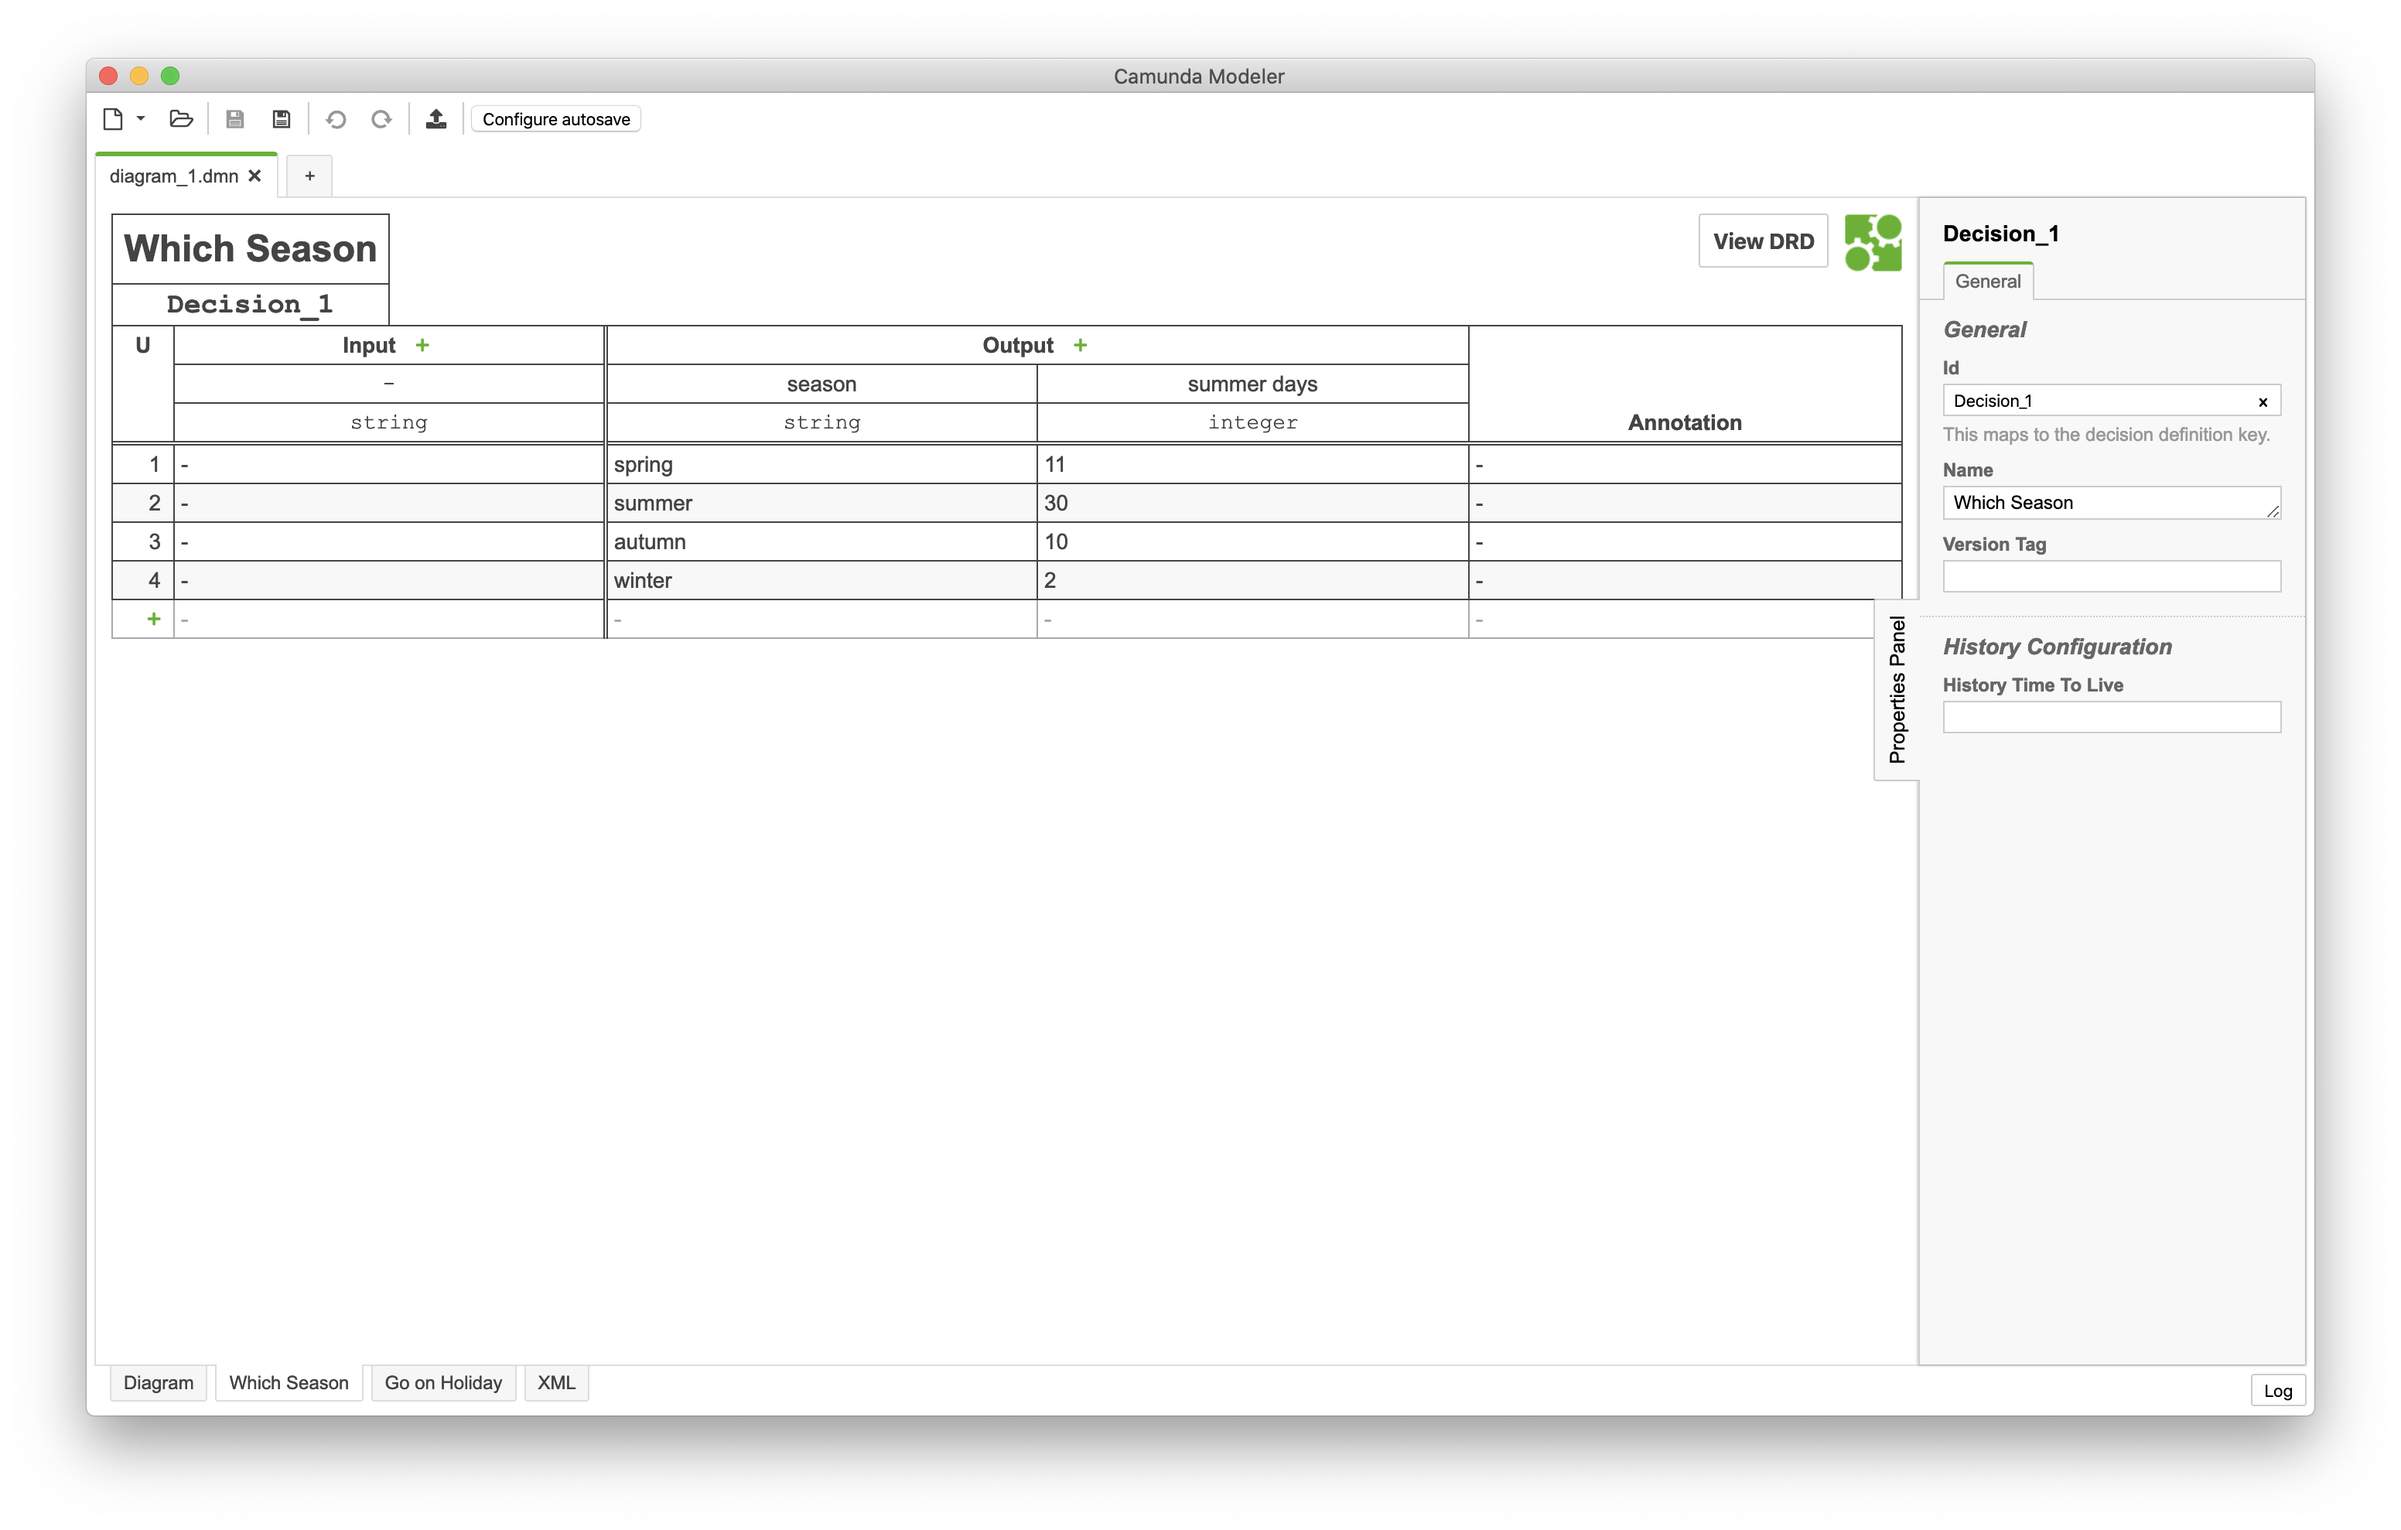
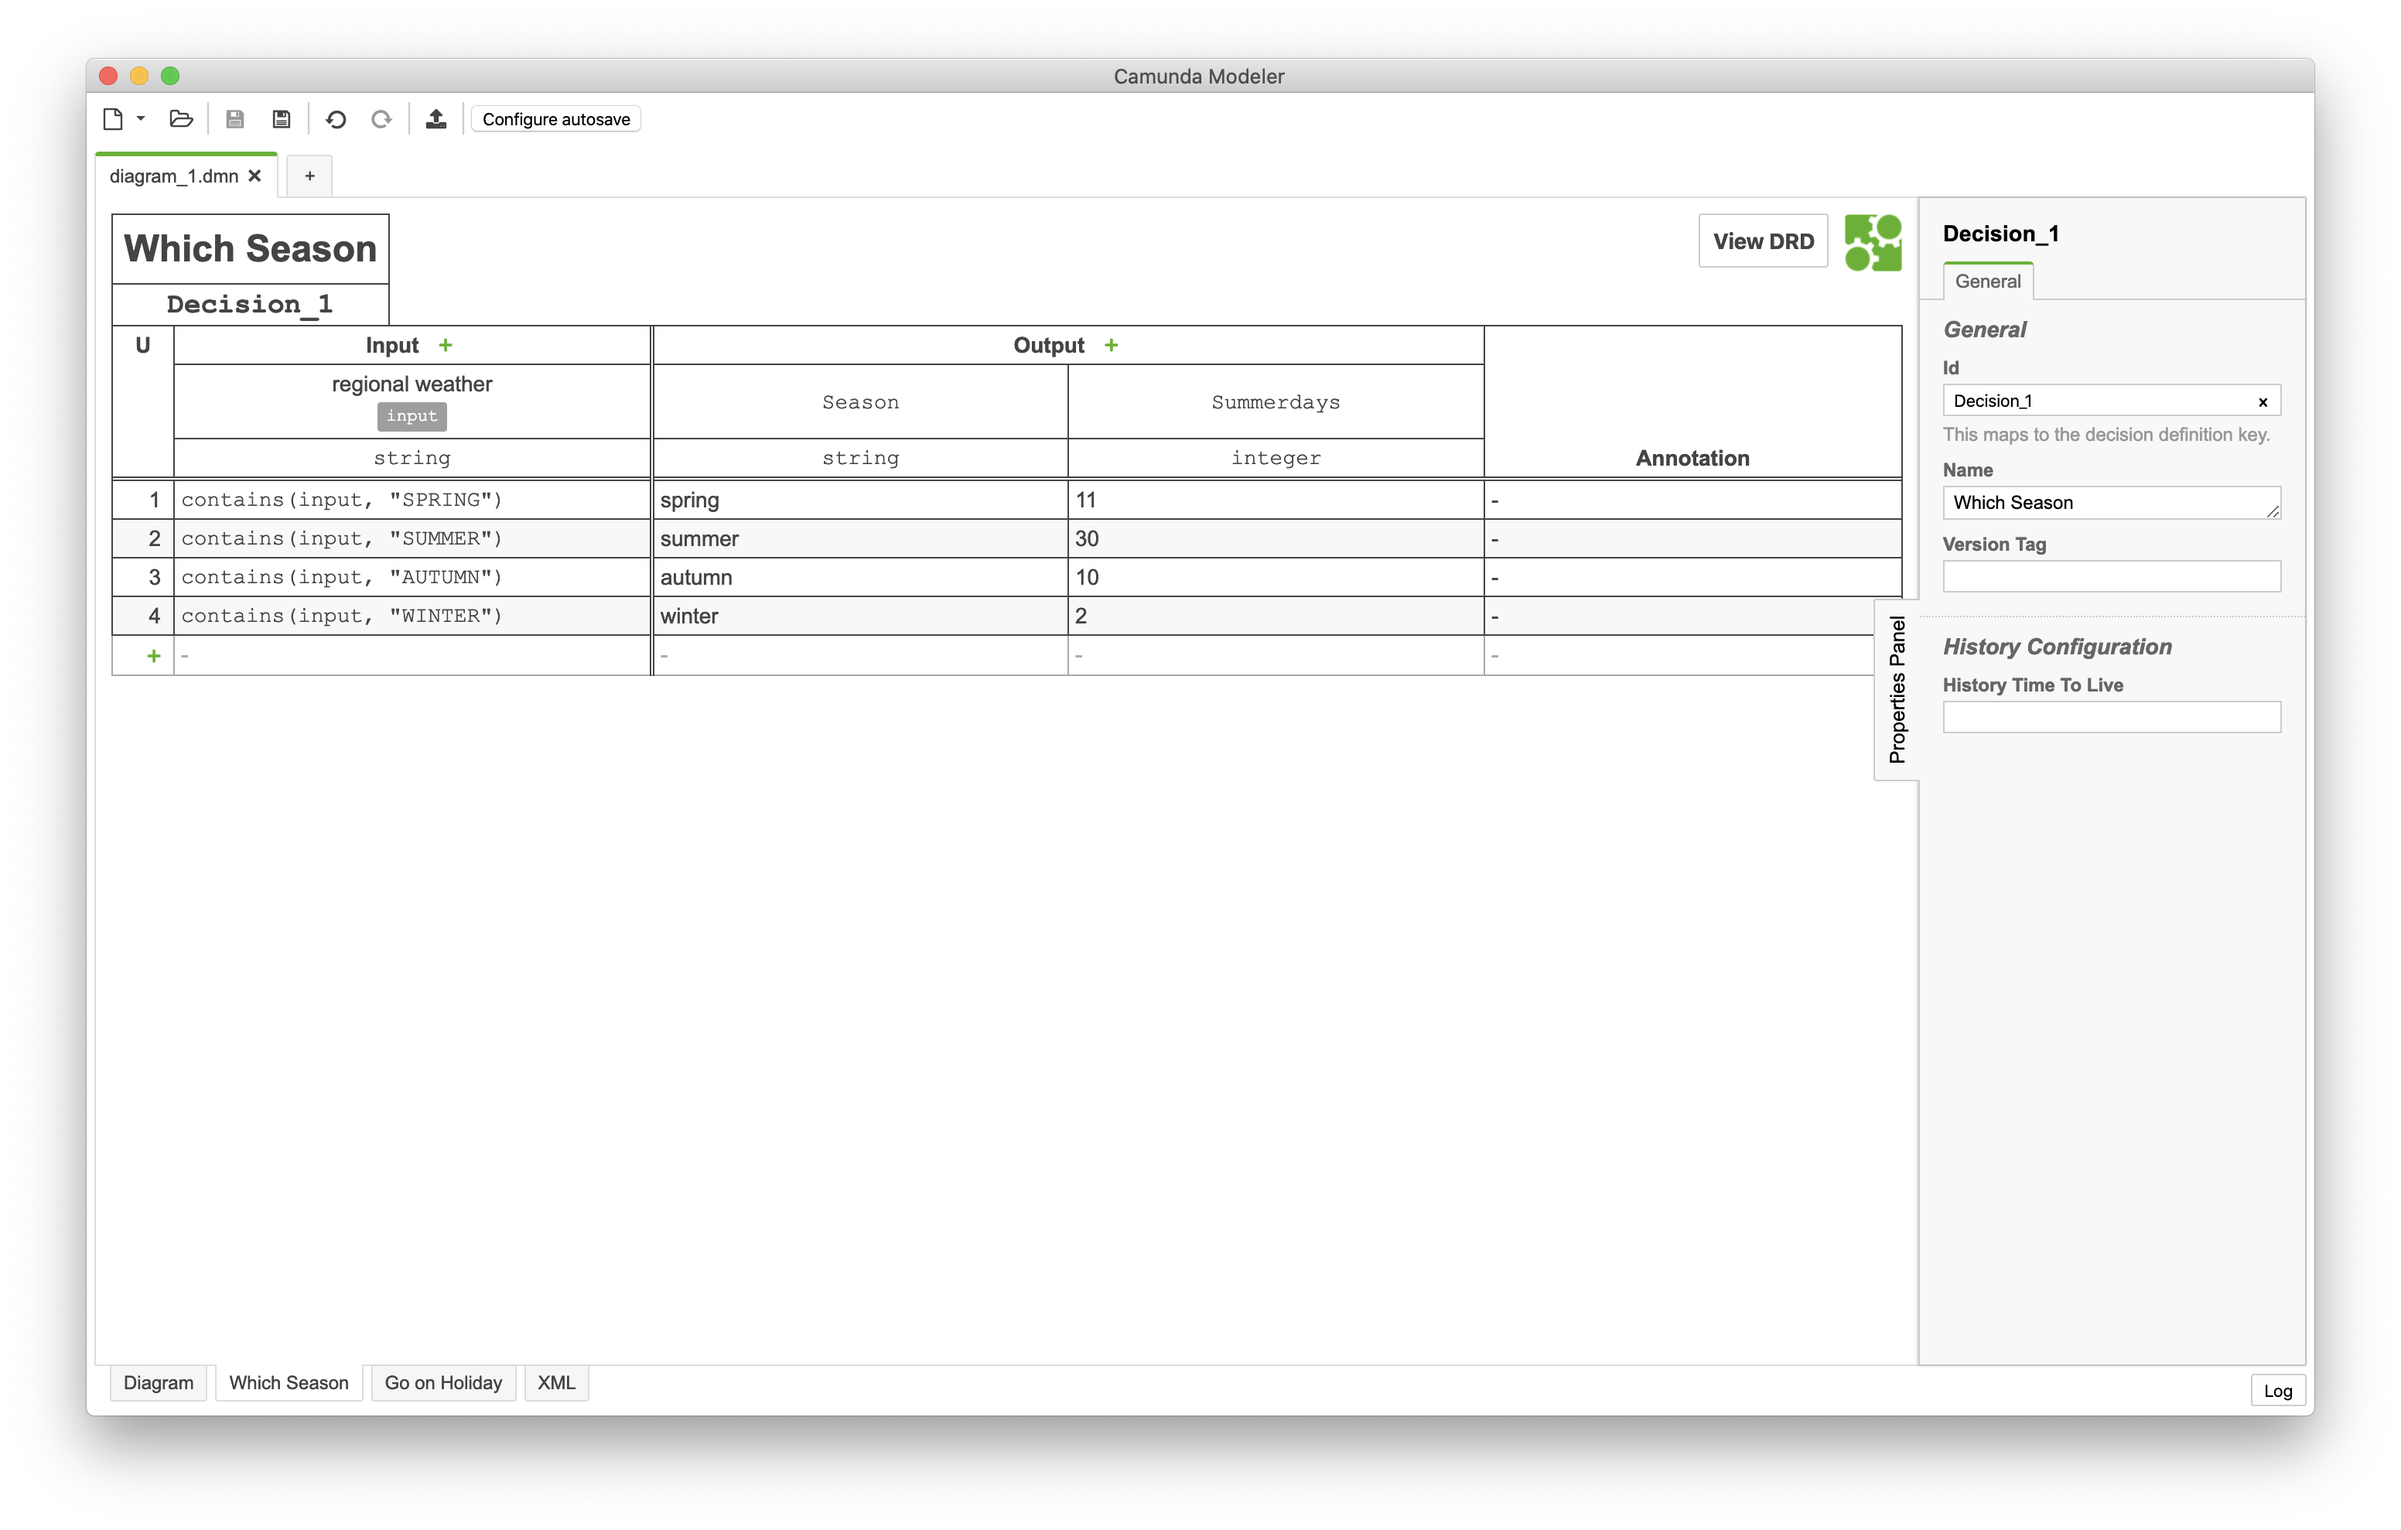
feat(project): add completed views

Changed region(s): [[0.0625, 0.2159, 0.7812, 0.4317], [0.4062, 0.2159, 0.4688, 0.2467]]

diff --git a/public/js/script.js b/public/js/script.js
@@ -1,8 +1,11 @@
 const views = {
     drd: { selector: "#view-drd" },
     'dt-season': { selector: "#view-dt-season" },
+    'dt-season-complete': { selector: "#view-dt-season-complete" },
     'dt-holiday-wrong': { selector: "#view-dt-holiday-wrong" },
     'dt-holiday': { selector: "#view-dt-holiday" },
+    'dt-holiday-summerdays': { selector: "#view-dt-holiday-summerdays" },
+    'dt-holiday-complete': { selector: "#view-dt-holiday-complete" },
     'drd-relations': { selector: "#view-drd-relations" },
     'drd-relations-correct-type': { selector: "#view-drd-relations-correct-type" },
     'drd-relations-correct-variable': { selector: "#view-drd-relations-correct-variable" },
@@ -11,8 +14,7 @@ const views = {
     'drd-relations-complete': { selector: "#view-drd-relations-complete" }
 }
 
-let stateHoliday;
-let stateRelations;
+let state;
 
 function switchView(viewId) {
 
@@ -38,7 +40,6 @@ function toggleDRDHovers(val) {
 
     const node4 = $('.outputs');
 
-
     node1.css('visibility', val);
     node2.css('visibility', val);
     node3.css('visibility', val);
@@ -47,45 +48,53 @@ function toggleDRDHovers(val) {
 
 $(document).ready(function(){
     $('.to-dt-holiday').click(function() {
-        if(stateHoliday === 'type-fixed') {
-            switchView('dt-holiday')
-        } else {
-            switchView('dt-holiday-wrong')
+        toggleDRDHovers('hidden');
+
+        switch(state) {
+            case 'correct-type': switchView('dt-holiday'); break;
+            case 'correct-variable': switchView('dt-holiday-summerdays'); break;
+            case 'complete': switchView('dt-holiday-complete'); break;
+            default: switchView('dt-holiday-wrong'); break;
         }
     });
 
     $('.change-type').click(function() {
-        stateHoliday = 'type-fixed';
-        stateRelations = 'correct-type';
+        state = 'correct-type';
         switchView('dt-holiday');
     });
 
     $('.fix-variable').click(function() {
-        stateRelations = 'correct-variable';
+        state = 'correct-variable';
         switchView('drd-relations-correct-variable');
     });
 
-    $('.to-dt-season').click(switchView.bind(this, 'dt-season'));
+    $('.to-dt-season').click(function() {
+        toggleDRDHovers('hidden');
+
+        switch(state) {
+            case 'complete': switchView('dt-season-complete'); break;
+            default: switchView('dt-season'); break;
+        }
+    });
+
+
     $('.to-drd').click(switchView.bind(this, 'drd'));
     $('.to-relations-new').click(switchView.bind(this, 'drd-relations-new'));
     $('.to-relations-new-filled').click(switchView.bind(this, 'drd-relations-new-filled'));
 
     $('.to-relations-complete').click(function()  {
-        stateRelations = 'complete';
+        state = 'complete';
         switchView('drd-relations-complete');
     });
 
     $('.see-relations').click(function() {
         toggleDRDHovers('hidden');
 
-        if(stateRelations === 'correct-type') {
-            switchView('drd-relations-correct-type');
-        } else if(stateRelations === 'correct-variable') {
-            switchView('drd-relations-correct-variable');
-        } else if(stateRelations === 'complete') {
-            switchView('drd-relations-complete');
-        } else {
-            switchView('drd-relations');
+        switch(state) {
+            case 'correct-type': switchView('drd-relations-correct-type'); break;
+            case 'correct-variable': switchView('drd-relations-correct-variable'); break;
+            case 'complete': switchView('drd-relations-complete'); break;
+            default: switchView('drd-relations'); break;
         }
     });
 

diff --git a/public/index.html b/public/index.html
@@ -99,8 +99,62 @@
         ></div>
       </div>
 
+      <!-- Decision Table Holiday (Summerdays) -->
+      <div id="view-dt-holiday-summerdays" class="view">
+        <div
+          class="interaction-box to-drd"
+          style="width: 70px; height: 25px; left: 1027px; top: 137px"
+        ></div>
+
+        <div
+          class="interaction-box to-drd"
+          style="width: 60px; height: 20px; left: 75px; top: 829px"
+        ></div>
+
+        <div
+          class="interaction-box to-dt-season"
+          style="width: 60px; height: 20px; left: 140px; top: 829px"
+        ></div>
+      </div>
+
+      <!-- Decision Table Holiday (Complete) -->
+      <div id="view-dt-holiday-complete" class="view">
+        <div
+          class="interaction-box to-drd"
+          style="width: 70px; height: 25px; left: 1027px; top: 137px"
+        ></div>
+
+        <div
+          class="interaction-box to-drd"
+          style="width: 60px; height: 20px; left: 75px; top: 829px"
+        ></div>
+
+        <div
+          class="interaction-box to-dt-season"
+          style="width: 60px; height: 20px; left: 140px; top: 829px"
+        ></div>
+      </div>
+
       <!-- Decision Table Season -->
       <div id="view-dt-season" class="view">
+        <div
+          class="interaction-box to-drd"
+          style="width: 70px; height: 25px; left: 1027px; top: 137px"
+        ></div>
+
+        <div
+          class="interaction-box to-drd"
+          style="width: 60px; height: 20px; left: 75px; top: 829px"
+        ></div>
+
+        <div
+          class="interaction-box to-dt-holiday"
+          style="width: 60px; height: 20px; left: 233px;  top: 829px"
+        ></div>
+      </div>
+
+      <!-- Decision Table Season (Complete) -->
+      <div id="view-dt-season-complete" class="view">
         <div
           class="interaction-box to-drd"
           style="width: 70px; height: 25px; left: 1027px; top: 137px"

diff --git a/public/css/styles.css b/public/css/styles.css
@@ -12,6 +12,11 @@ body {
   visibility: hidden;
 }
 
+#view-dt-season-complete {
+  background-image: url(/views/dt_season_complete.png);
+  visibility: hidden;
+}
+
 #view-dt-holiday {
   background-image: url(/views/dt_holiday.png);
   visibility: hidden;
@@ -19,6 +24,16 @@ body {
 
 #view-dt-holiday-wrong {
   background-image: url(/views/dt_holiday_wrongtype.png);
+  visibility: hidden;
+}
+
+#view-dt-holiday-summerdays {
+  background-image: url(/views/dt_holiday_summerdays.png);
+  visibility: hidden;
+}
+
+#view-dt-holiday-complete {
+  background-image: url(/views/dt_holiday_complete.png);
   visibility: hidden;
 }
 
